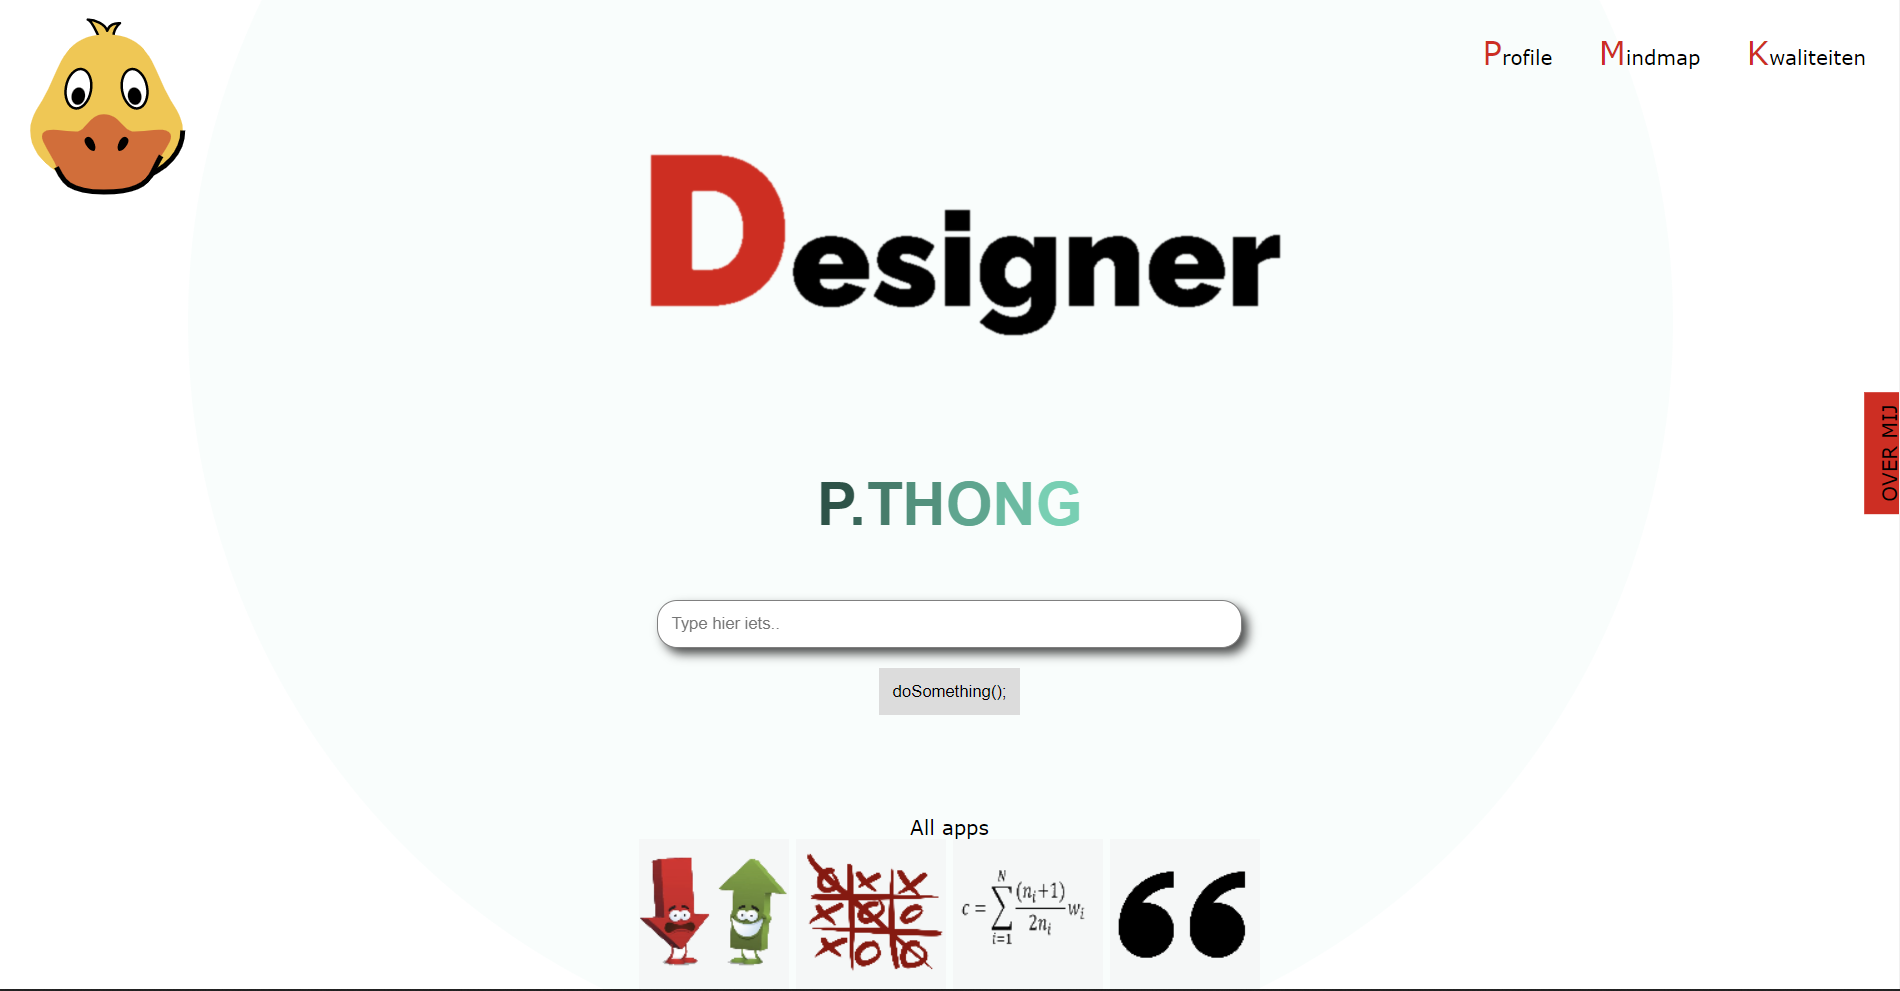
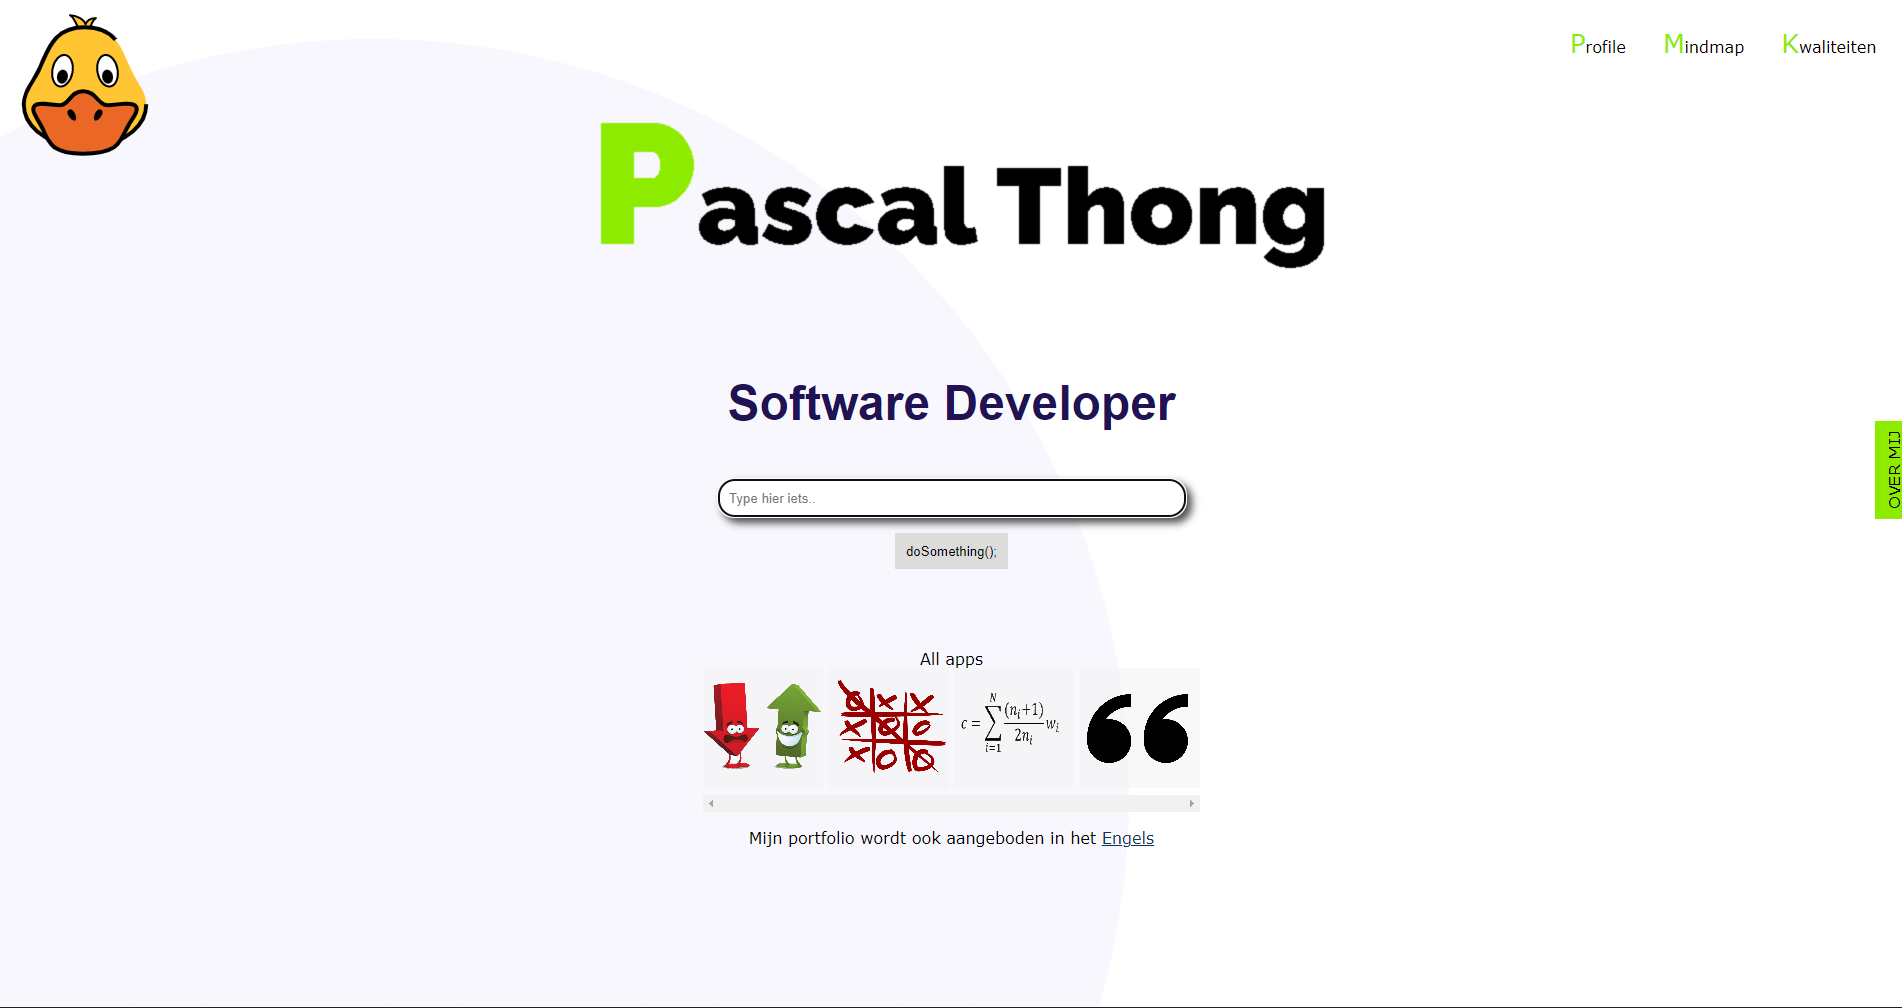
overlay gemaakt + effect

diff --git a/css/style.css b/css/style.css
@@ -94,7 +94,7 @@ hr {
     }
 
     .ab-img img:hover {
-        box-shadow: 2px 3px 11px 2px #ffffff61
+        box-shadow: 2px 3px 11px 2px #ffffff61;
     }
 }
 
@@ -193,26 +193,31 @@ hr {
 }
 
 /* student section */
-
-.pthong img{    
+.portfolio img {
     width: 100%;
     border: 8px solid #5F494B;
 }
 
-.pthong-overlay{
+.pthong-overlay {
     z-index: 10;
     grid-column: pthong-start / pthong-end;
     grid-row: pthong-start / pthong-end;
-    background-color: #94868798;
     text-align: center;
     color: white;
+    background-color: #94868798;
     text-shadow: 0px 3px 6px #000;
     font-size: 38px;
     padding: 19%;
+    transition: opacity 0.32s linear;
+    opacity: 0;
+    text-decoration: none;
+}
+
+.pthong-overlay:hover {
+    opacity: 1;
 }
 
 /* grid-areas */
-
 .header {
     grid-area: hd;
 }
@@ -233,10 +238,10 @@ hr {
     grid-area: abimg;
 }
 
-.student-section{
+.student-section {
     grid-area: stwork;
 }
 
-.pthong{
+.pthong {
     grid-area: pthong;
 }

diff --git a/index.html b/index.html
@@ -105,13 +105,13 @@
             <h2 class="section-title">.Work Of Students</h2>
             <hr>
         </article>
-        <article class="pthong">
+        <article class="pthong portfolio">
             <img src="img/pthong.png" alt="">
         </article>
-        <div class="pthong-overlay">
+        <a class="pthong-overlay" target="_blank" href="https://thop01.github.io/">
             <p>Pascal Thong</p>
             <p>T1L</p>
-        </div>
+        </a>
     </div>
 </body>
 
